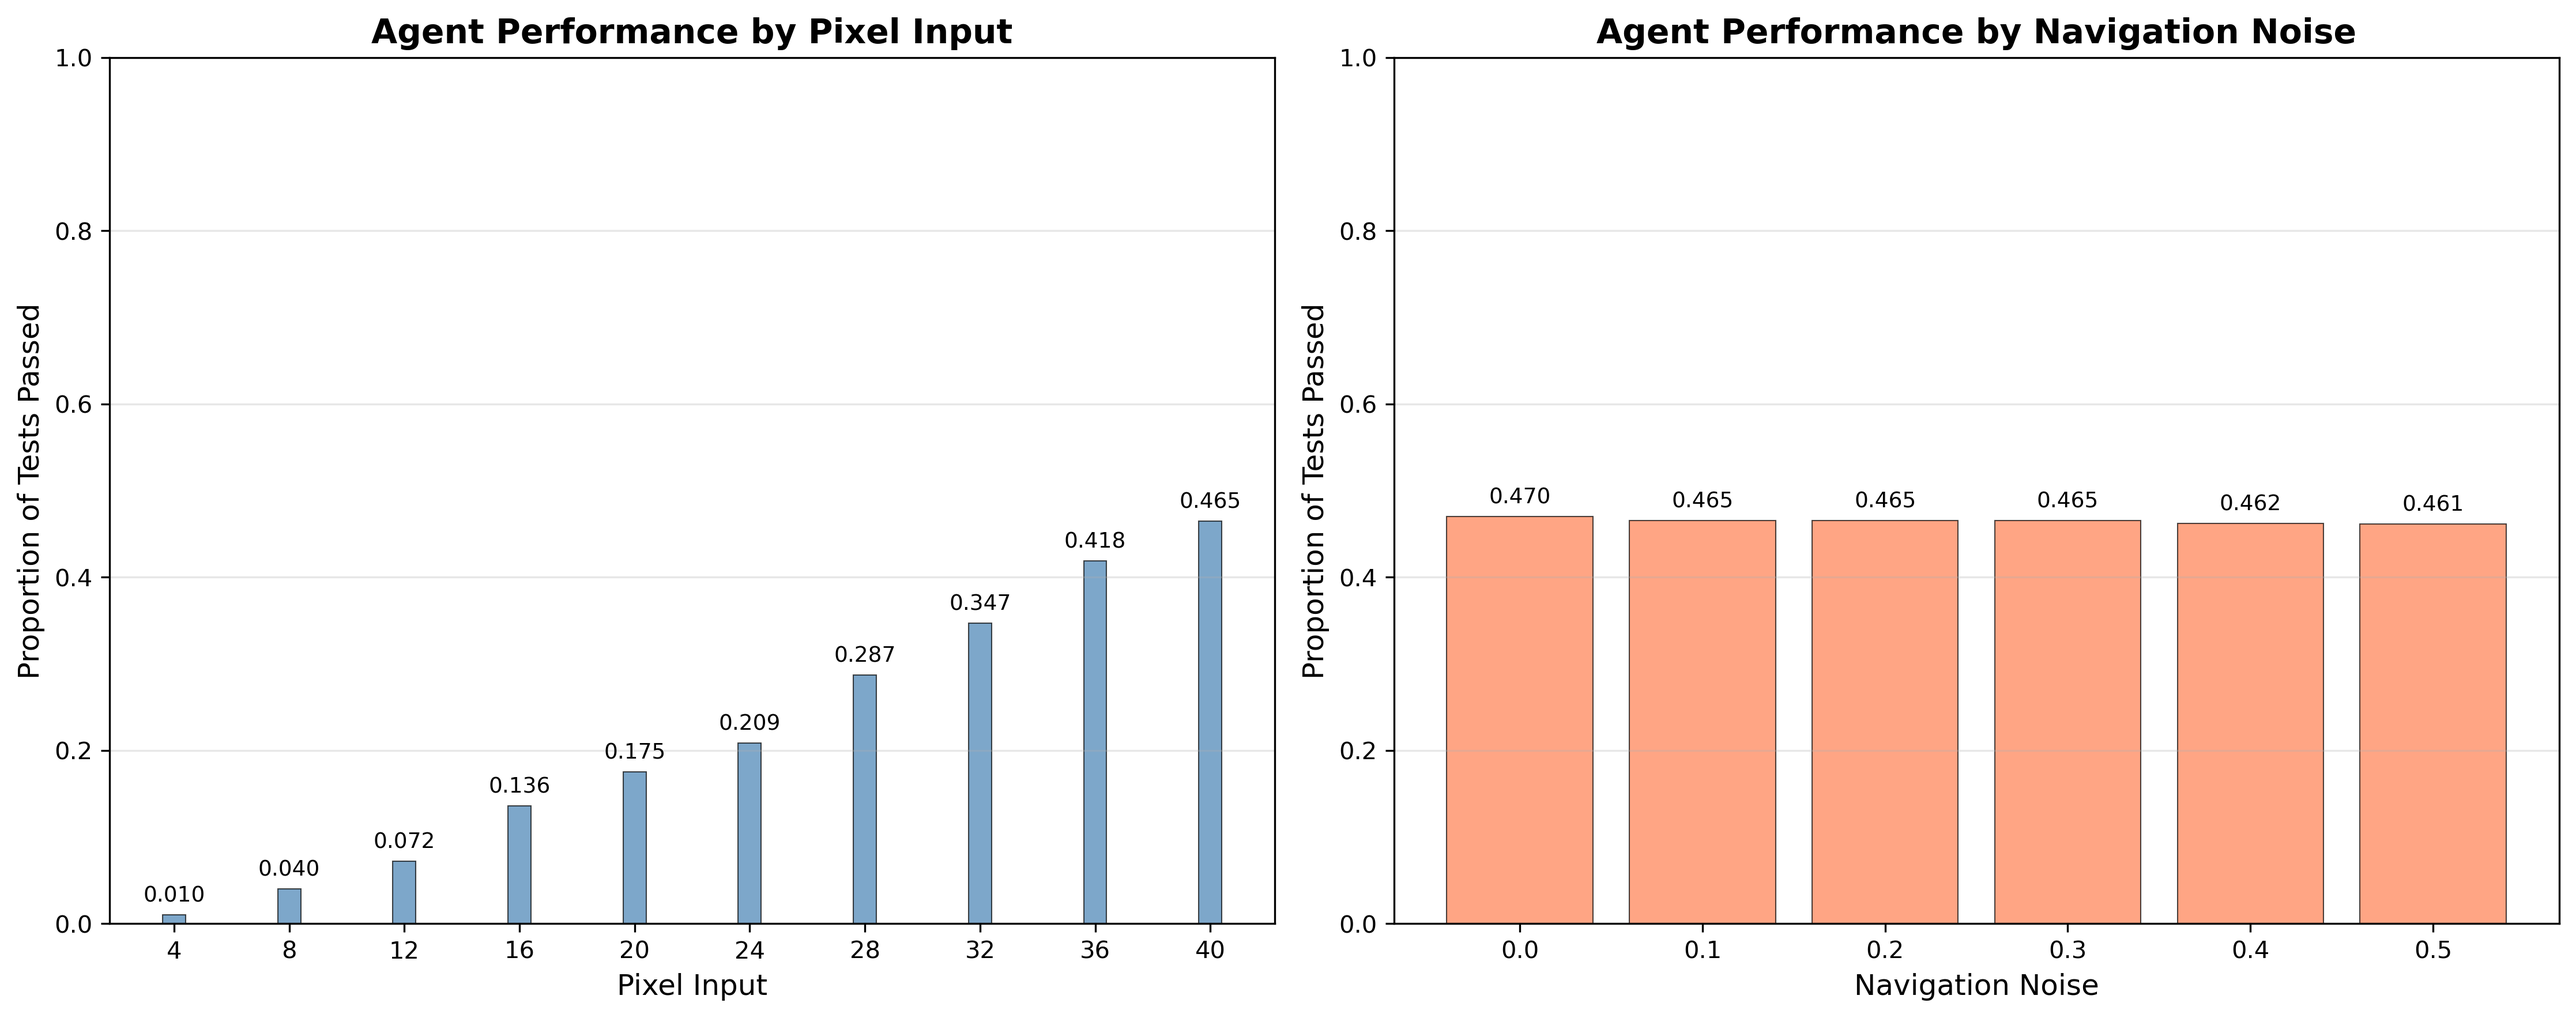
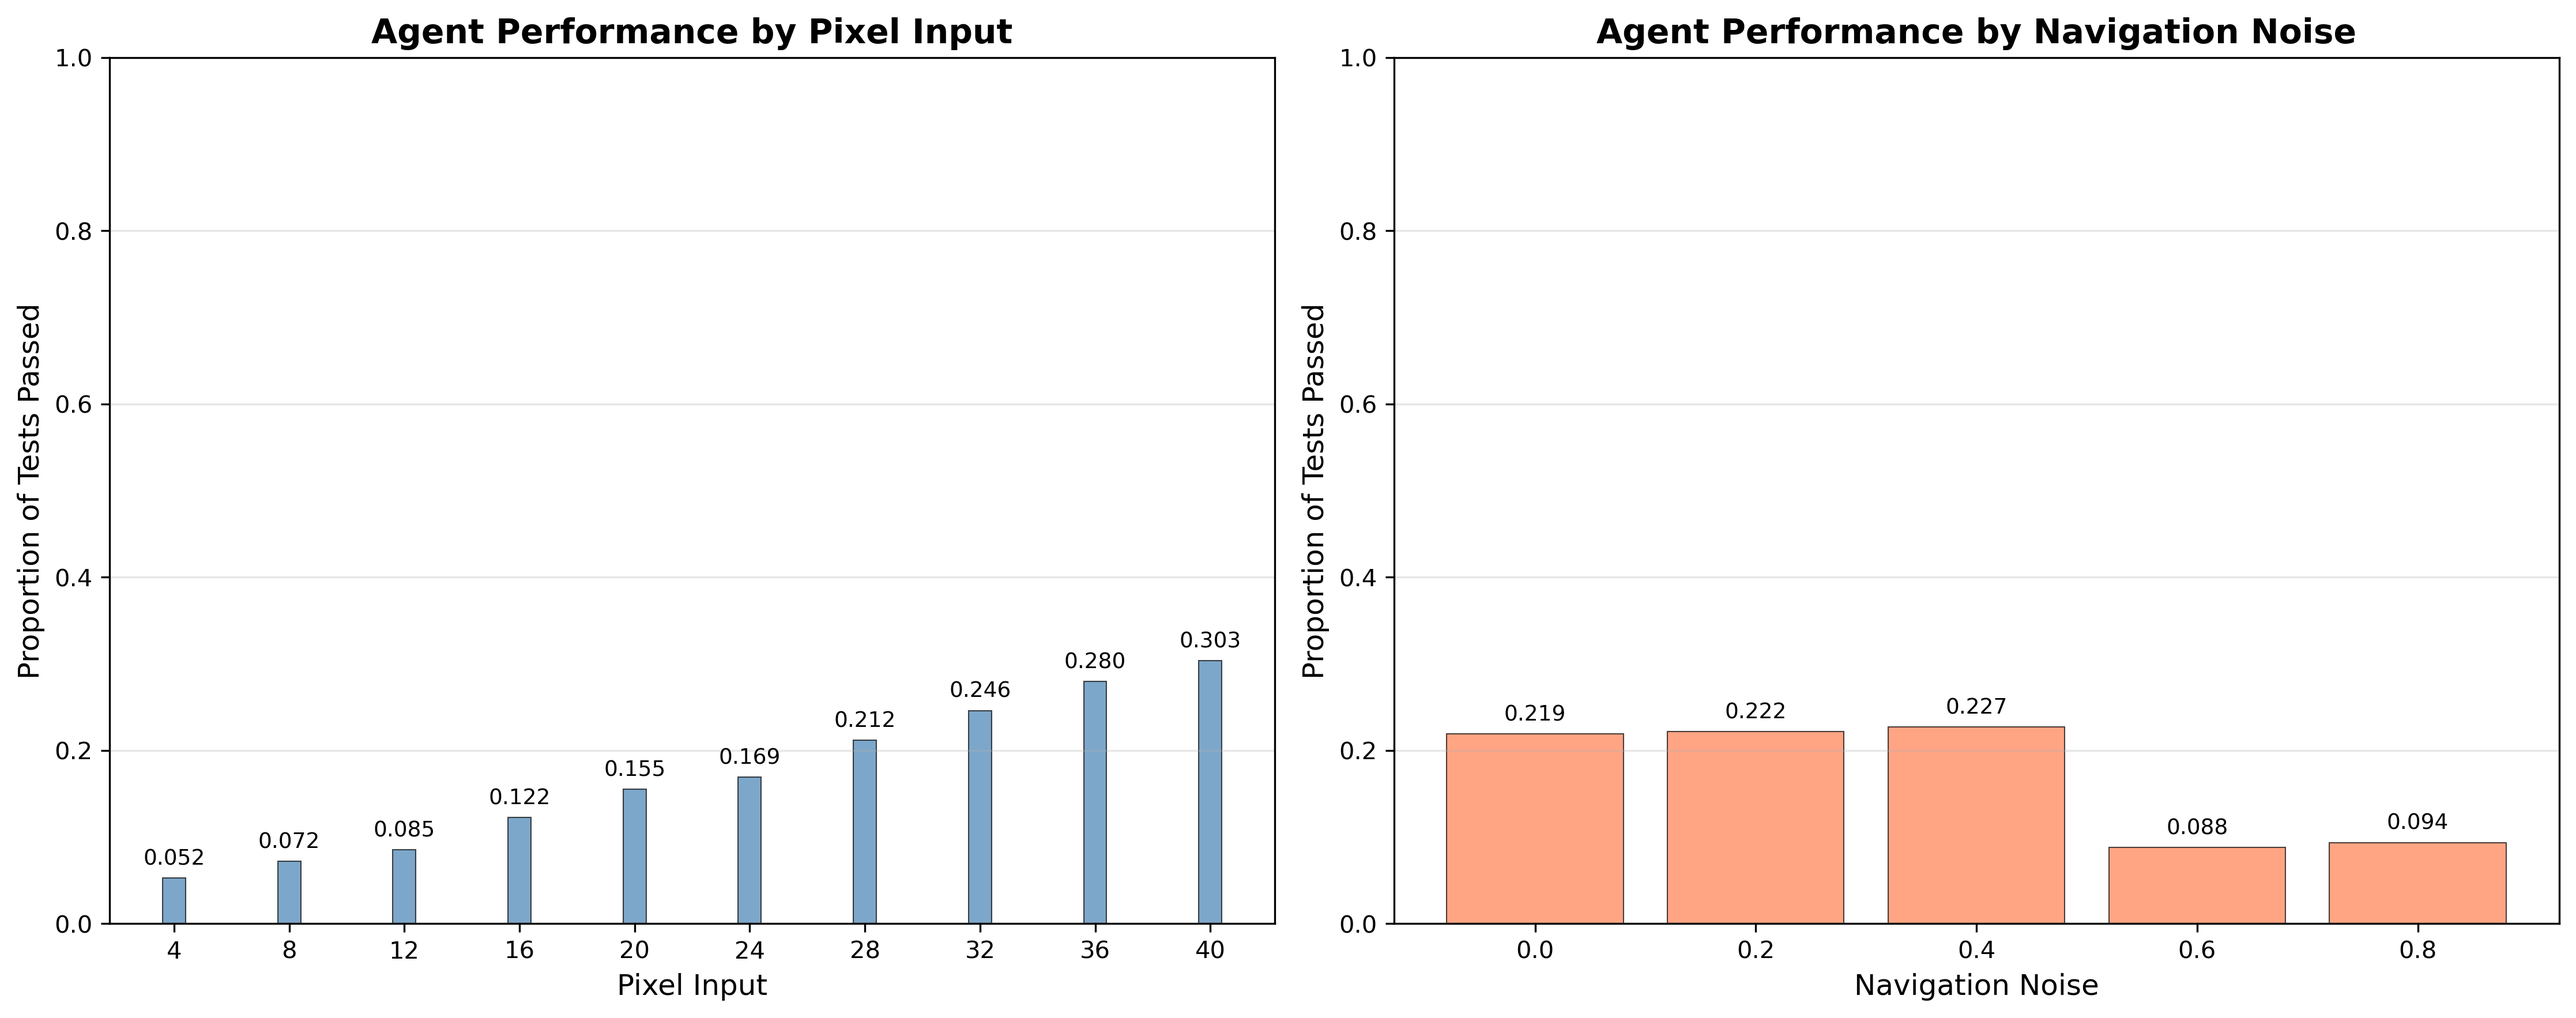
Update plots

diff --git a/basic_measurement_layout/plotting.py b/basic_measurement_layout/plotting.py
@@ -46,7 +46,8 @@ def load_and_analyze_data(folder_path="."):
     pixels_summary = pixels_summary.reset_index()
     
     # Calculate pass rates by noise
-    noise_summary = combined_df[combined_df['pixelInput'] == 40].groupby('navigationNoise').agg({
+    # noise_summary = combined_df[combined_df['pixelInput'] == 40].groupby('navigationNoise').agg({
+    noise_summary = combined_df.groupby('navigationNoise').agg({
         'passed': ['sum', 'count']
     }).round(4)
     noise_summary.columns = ['passes', 'total_tests']
